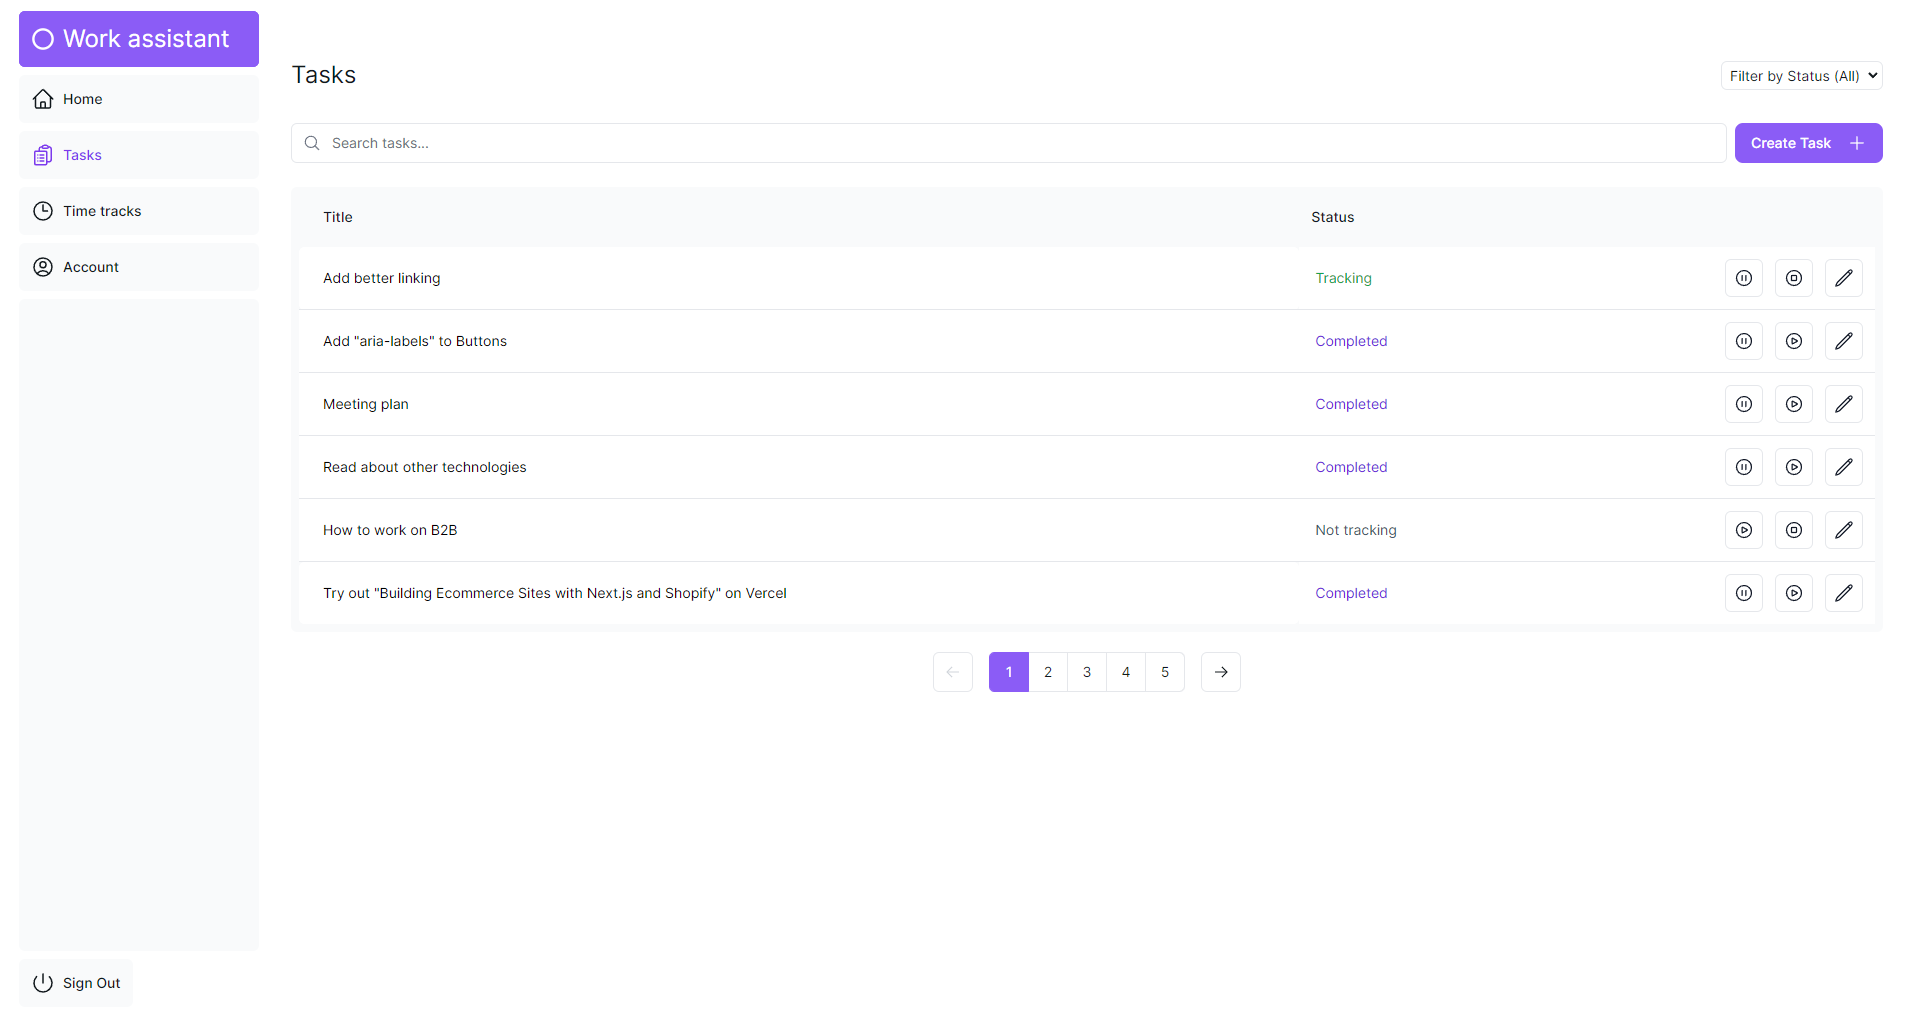
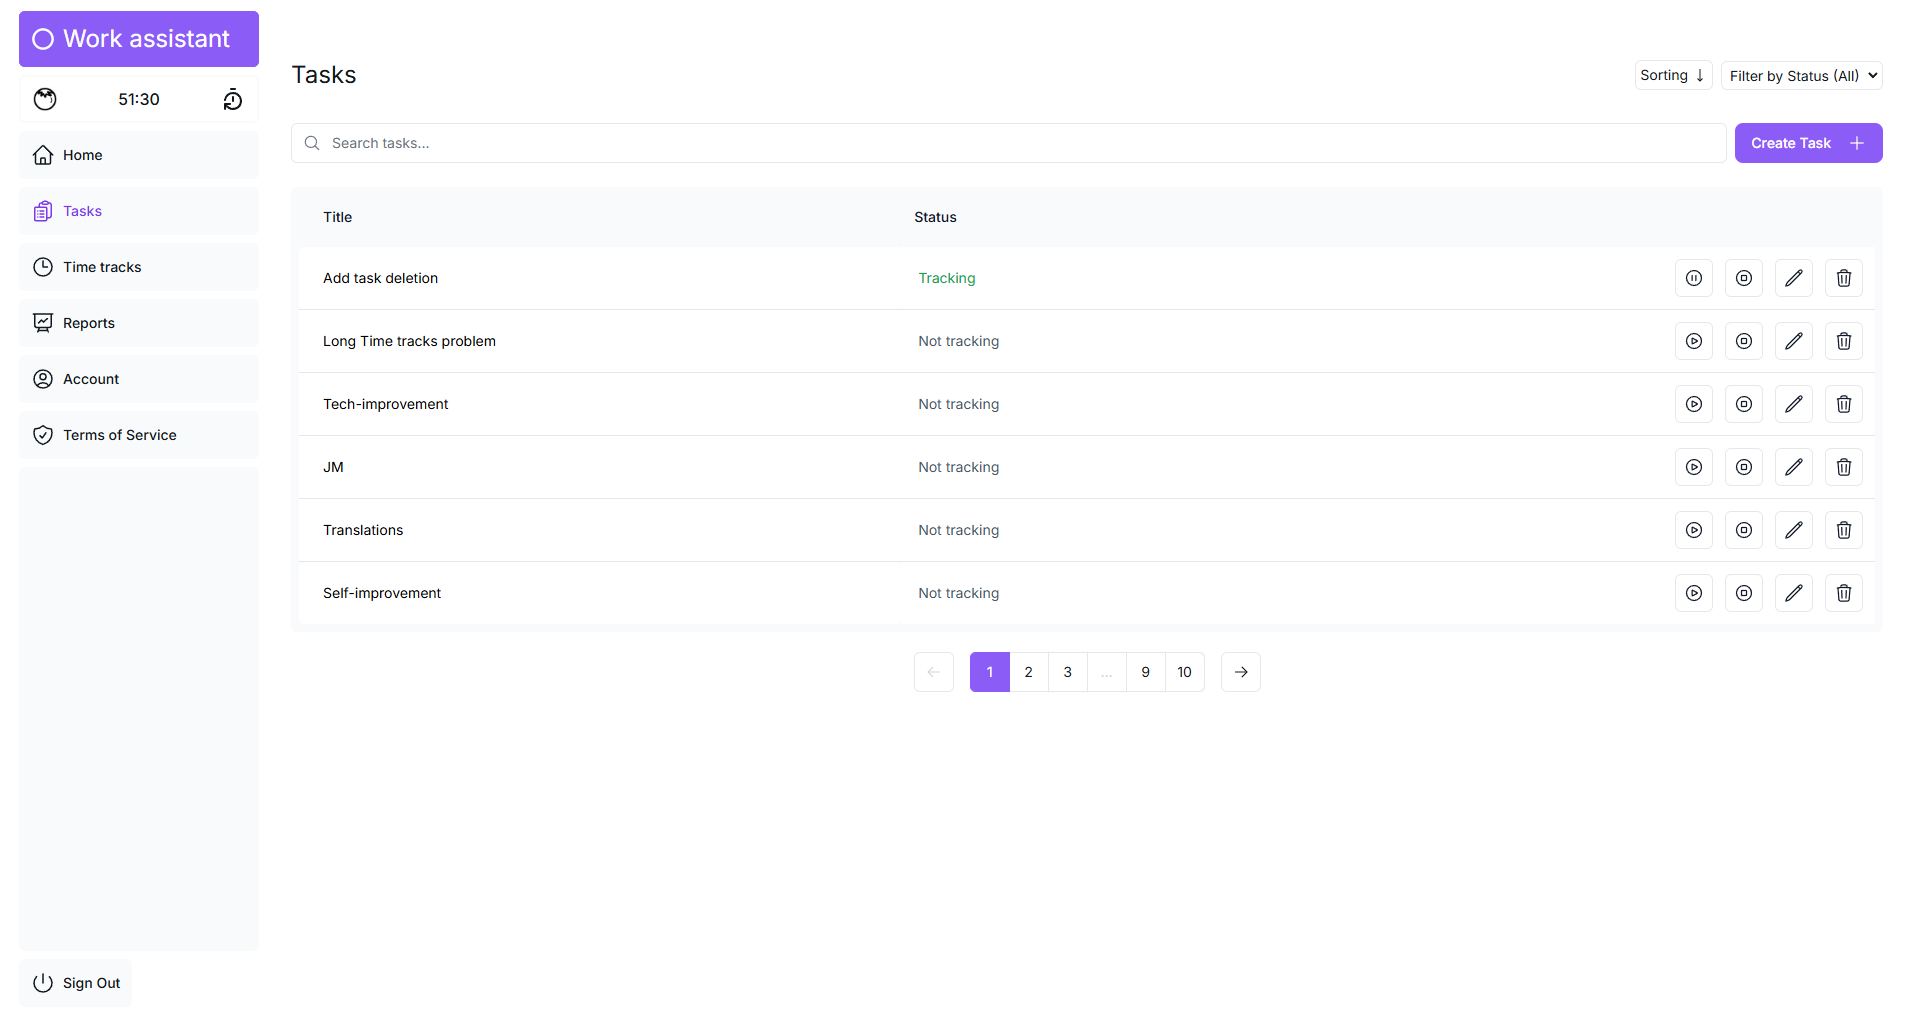
Update docs about task deletion

diff --git a/README.md b/README.md
@@ -27,7 +27,7 @@ This project leverages a modern tech stack to deliver a robust and scalable appl
 
 - **Terms of Service and Privacy Policy:** Easily accessible and clear terms and conditions.
 - **Email Authentication:** Secure sign-in using email authentication links.
-- **Task Management:** Create and edit tasks with planned completion times.
+- **Task Management:** Create, edit, delete tasks with planned completion times.
 - **Time Tracking:** Start and stop tracking time for tasks.
 - **Task Completion:** Mark tasks as complete.
 - **Time Tracks Management:** View and edit all your time tracks.
@@ -61,6 +61,7 @@ This project leverages a modern tech stack to deliver a robust and scalable appl
 ![Dashboard](screenshots/dashboard.png)
 ![Tasks](screenshots/tasks.png)
 ![Task](screenshots/task.png)
+![Delete Task](screenshots/delete-task.png)
 ![Task Time tracks](screenshots/task-time-tracks.png)
 ![Time tracks](screenshots/time-tracks.png)
 ![Report selection](screenshots/report-select.png)
